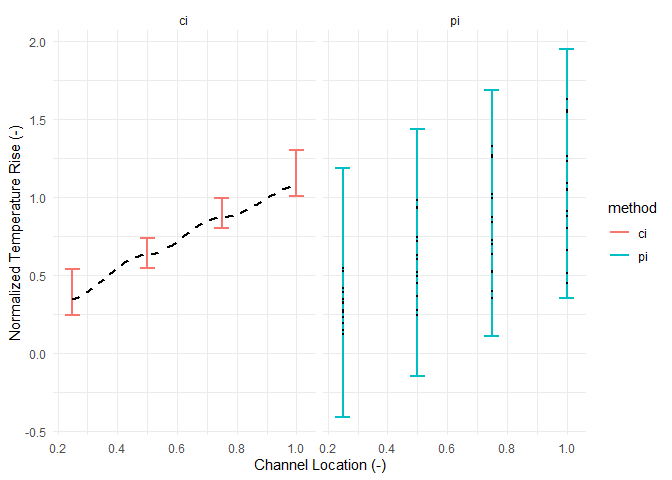
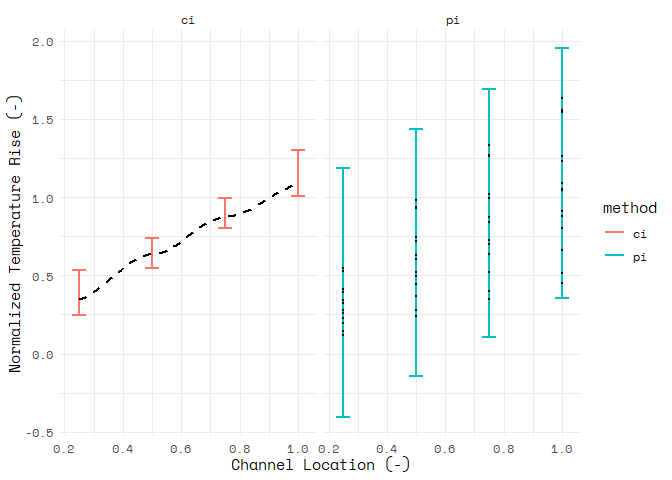
c01 & c03 revisions

diff --git a/challenges/c11-psaap-assignment.md b/challenges/c11-psaap-assignment.md
@@ -159,7 +159,24 @@ library(leaps)
     ## Warning: package 'leaps' was built under R version 4.2.3
 
 ``` r
+library(extrafont)
+```
+
+    ## Registering fonts with R
+
+``` r
+dir.create("fonts")
+```
+
+    ## Warning in dir.create("fonts"): 'fonts' already exists
+
+``` r
+# font_add_google("Space Mono", family = "SpaceMono")
+# font_import(pattern = "Space Mono")
+# loadfonts(device = "win")
+
 select <- dplyr::select
+theme_set(theme_minimal(base_family = "Space Mono"))
 
 
 ## Helper function to compute uncertainty bounds
@@ -517,7 +534,7 @@ print_model <- function(model) {
 print_model(rf_all)
 ```
 
-    ## Model:  rf_all ,  Training R^2:  0.9023 ,  Validation R^2:  0.4117
+    ## Model:  rf_all ,  Training R^2:  0.9079 ,  Validation R^2:  0.4149
 
 ``` r
 print_model(lm_all)
@@ -566,7 +583,6 @@ df_inputs %>%
   ggplot(aes(variable1, variable2, fill = covariance)) +
     geom_tile() +
     scale_fill_gradient2(low = "blue", mid = "white", high = "red", midpoint = 0) +
-    theme_minimal() +
     theme(axis.text.x = element_text(angle = 45, hjust = 1))
 ```
 
@@ -811,7 +827,6 @@ df_intervals %>%
   ) +
 
   facet_grid(~method) +
-  theme_minimal() +
   labs(
     x = "Channel Location (-)",
     y = "Normalized Temperature Rise (-)"
@@ -882,7 +897,6 @@ bind_rows(
   geom_point() +
   
   facet_grid(~ model, labeller = label_both) +
-  theme_minimal() +
   labs(
     title = "Predicted vs Actual",
     x = "Actual T_norm",

diff --git a/challenges/c01-titanic-assignment.md b/challenges/c01-titanic-assignment.md
@@ -283,9 +283,10 @@ df_no_age %>%
 - This plot says all first and seconds class passengers survived which I
   suspect is wrong.
 - About 87% of female crew members survived.
-- Male crew members were less likely to survive than male 3rd class
-  passengers while the opposite was true for female 3rd class passengers
-  and crew members.
+- From the first plot, it appears male crew members were less likely to
+  survive than male 3rd class passengers while the opposite was true for
+  female 3rd class passengers and crew members. Actually, crew are more
+  likely to survive than 3rd class passengers for both sexes.
 - Is there anything *fishy* going on in your plot?
   - Simple subsitution is not sufficient. Prop is calculated within
     Class, Sex, and Age but the plot is adding proportions within Sex.
